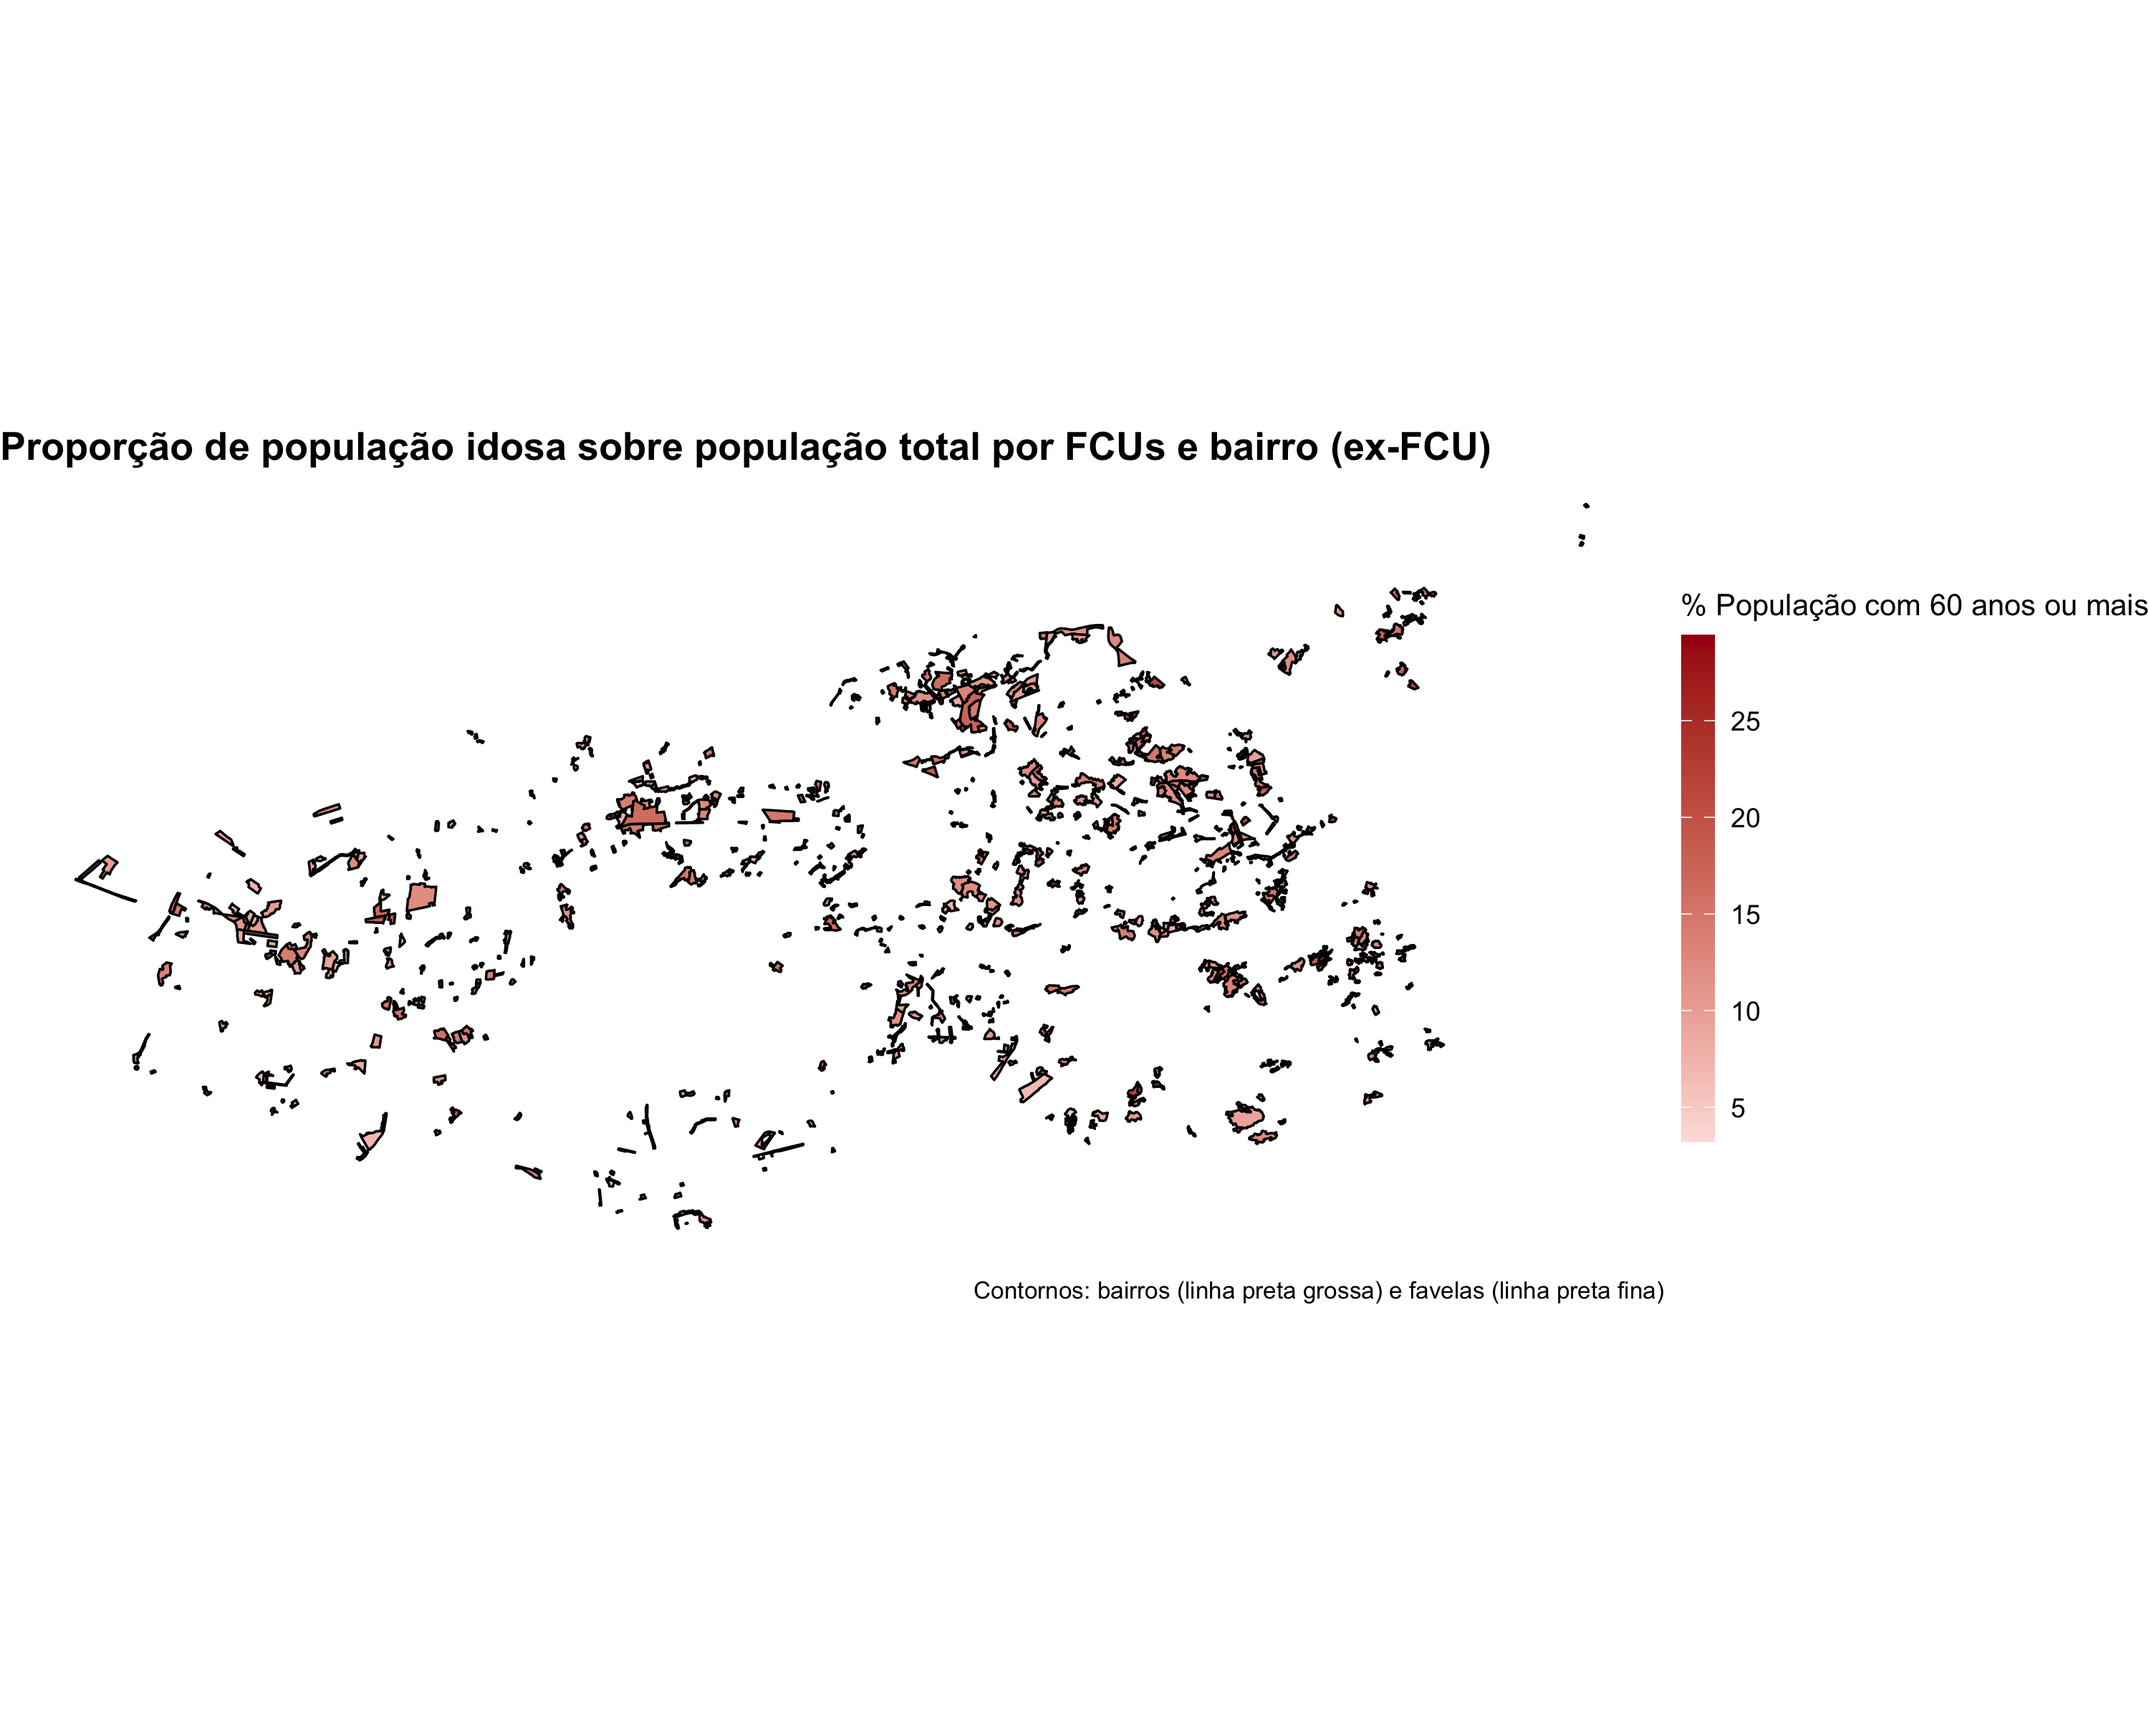
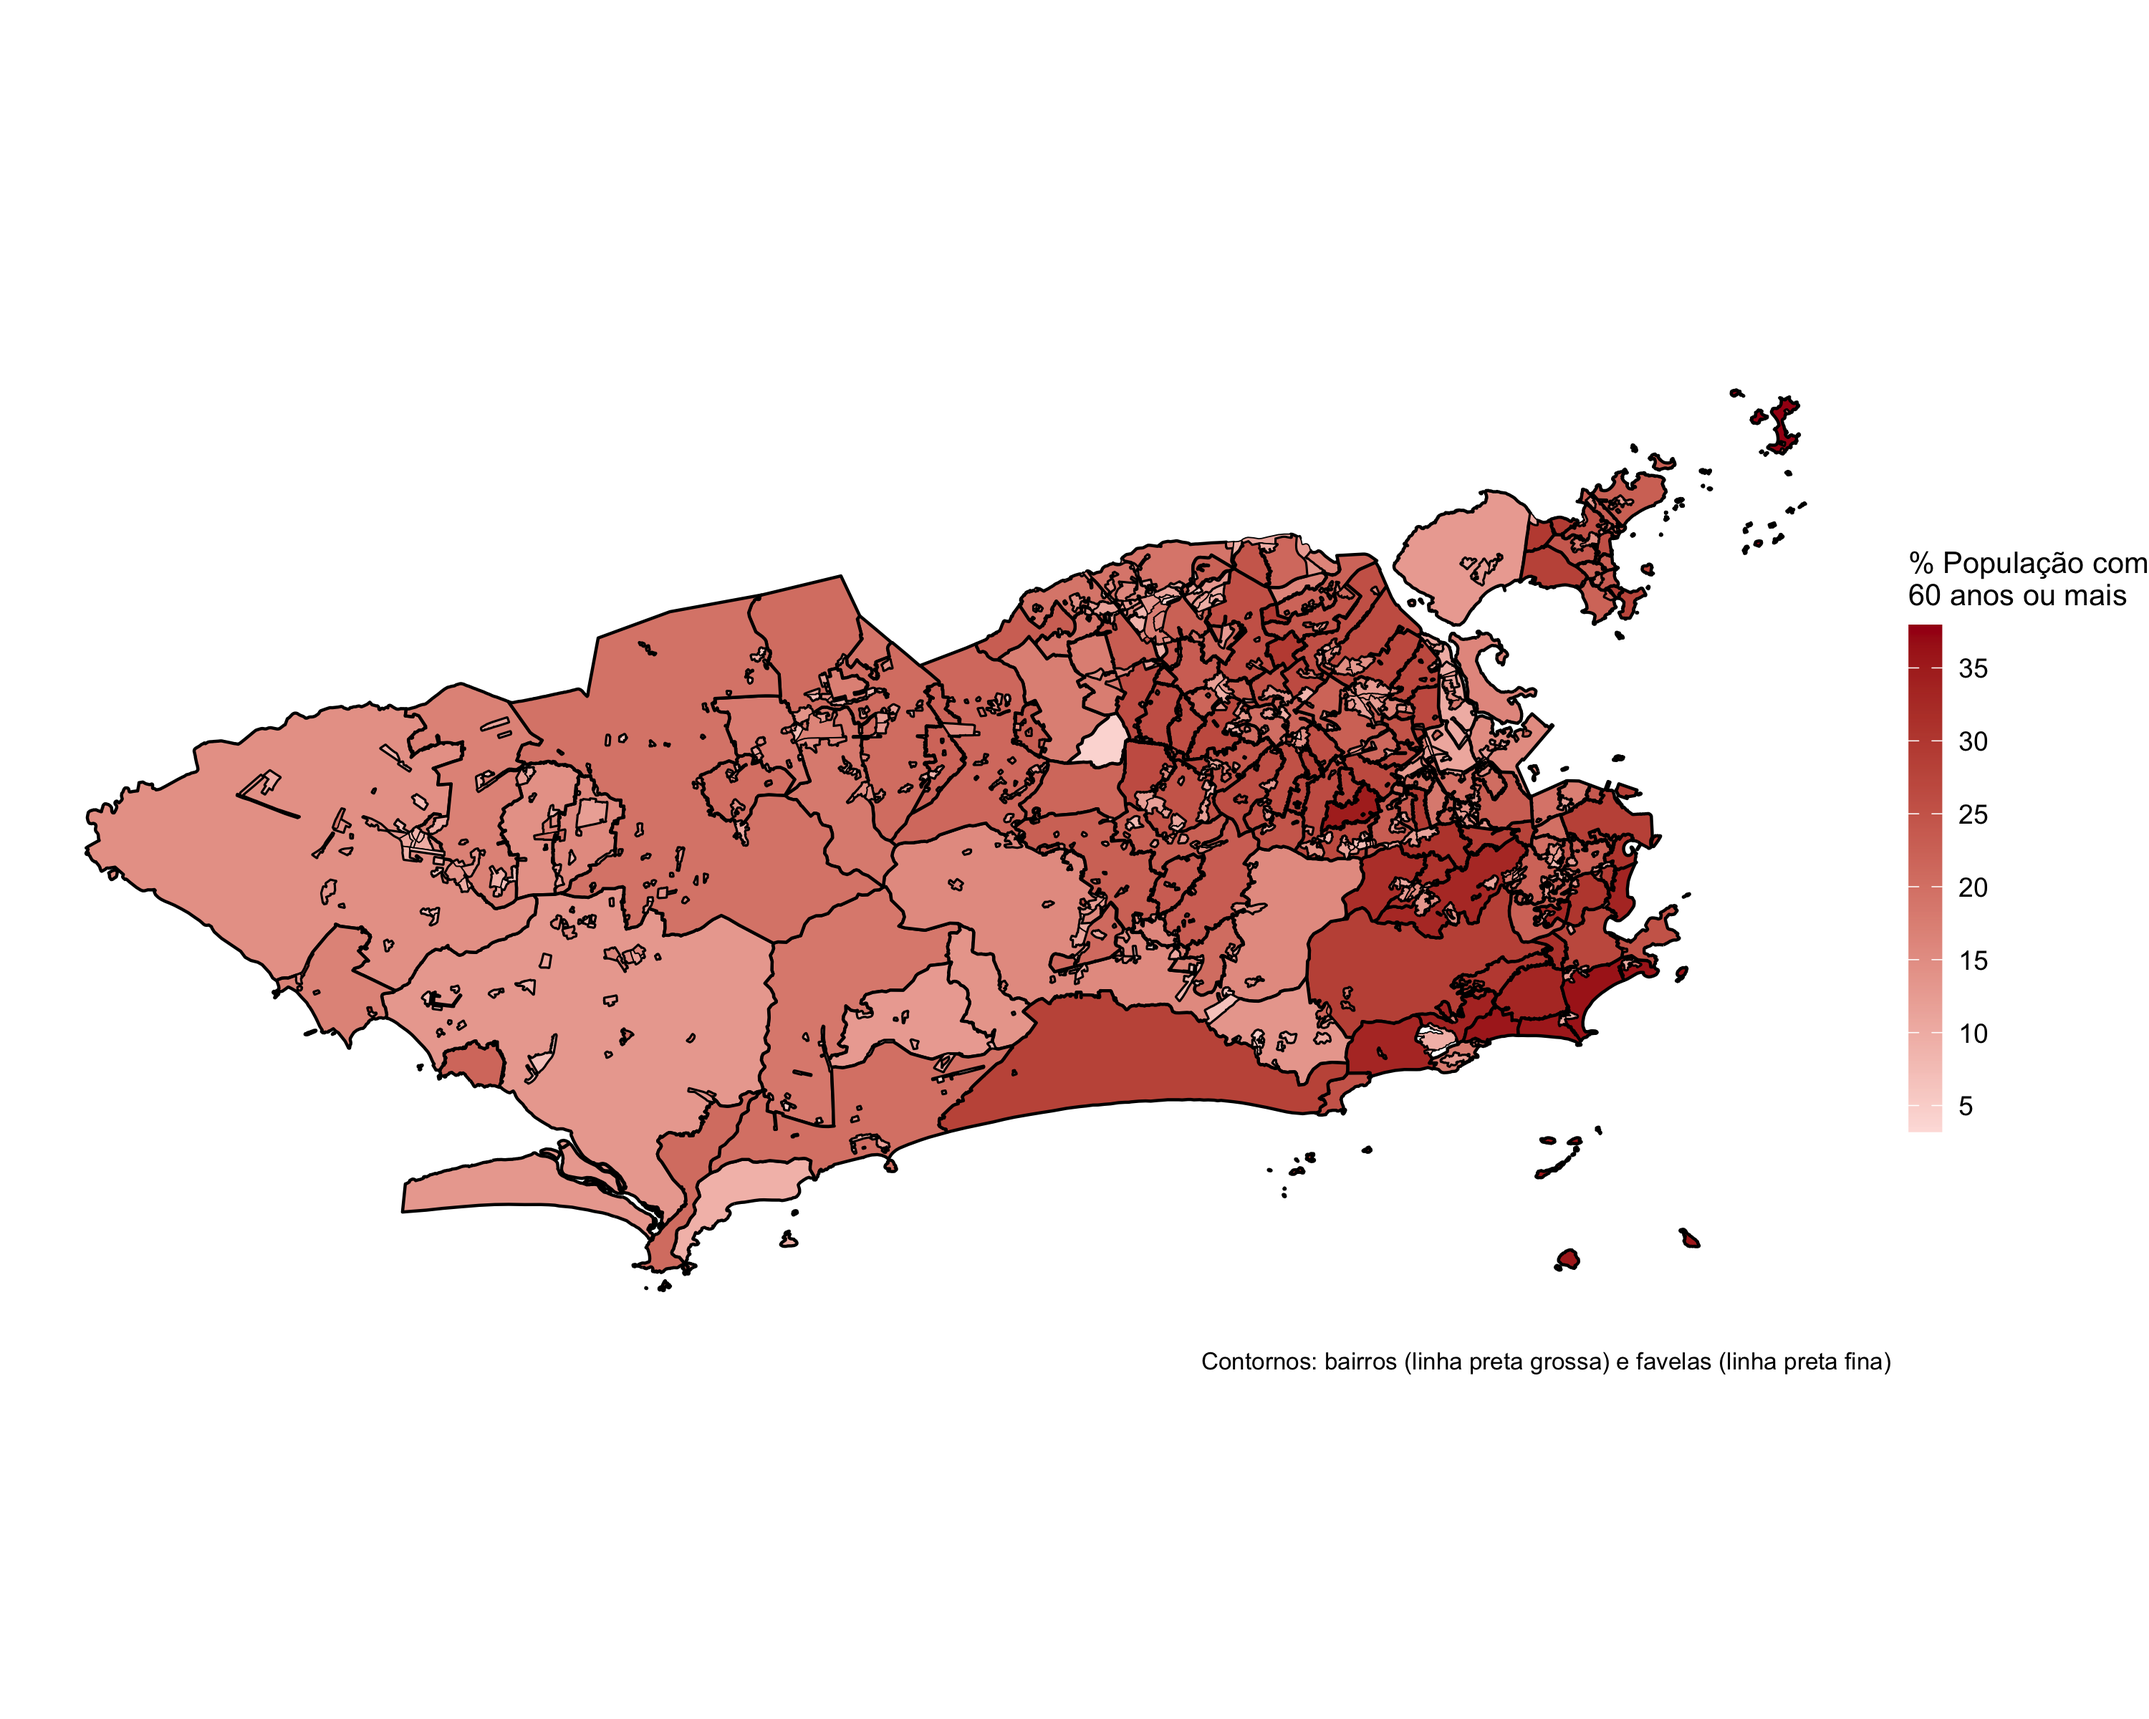
melhorando  graficos resultados e instruções de uso

diff --git a/README.md b/README.md
@@ -1,7 +1,7 @@
 # Condições de vida dos idosos em FCUs no Rio de Janeiro (CD 2022)
 
 ## Objetivo
-Esse projeto dá suporte para a comparação entre o perfil demográfico de envelhecimento entre favelas e áreas urbanas de não favela do município do Rio de Janeiro, com dados do censo de 2022 (IBGE).
+Esse projeto dá suporte para a comparação entre o perfil demográfico de envelhecimento entre favelas e áreas urbanas de não favela do município do Rio de Janeiro, com dados do Censo Demográfico de 2022 (IBGE).
 
 ## Estrutura
 
@@ -28,7 +28,7 @@ Foram utilizados os seguintes arquivos:
 - Página de download:  
 https://www.ibge.gov.br/estatisticas/sociais/saude/22827-censo-demografico-2022.html?=&t=downloads
 
-Os arquivos foram utilizados em sua forma original, sem modificações prévias. No script foram filtrados os dados referentes ao município do Rio de Janeiro e tratados os dados faltantes ('X')
+Os arquivos foram utilizados em sua forma original, sem modificações prévias. No script foram filtrados os dados referentes ao município do Rio de Janeiro e tratados os dados faltantes.
 
 Além disso, os arquivos dos contornos dos bairros e dos setores censitários foram adquiridos através do endereço web:
 https://www.ibge.gov.br/geociencias/organizacao-do-territorio/estrutura-territorial/26565-malhas-de-setores-censitarios-divisoes-intramunicipais.html
@@ -42,7 +42,6 @@ e os arquivos SHAPE File de bairros por UF foi encontrado neste endereço web:
 [link para malha territorial bairros](
 https://www.ibge.gov.br/geociencias/downloads-geociencias.html?caminho=organizacao_do_territorio/malhas_territoriais/malhas_de_setores_censitarios__divisoes_intramunicipais/censo_2022/bairros/shp/UF)
 
+## Reprodutibilidade dos resultados
 
-
-
-
+Para reproduzir os resultados deste repositório, é necessário baixar os arquivos brutos nos links acima, colocá-los na pasta `brutos` dentro da pasta `dados` e executar os scripts na ordem indicada pelos nomes.
